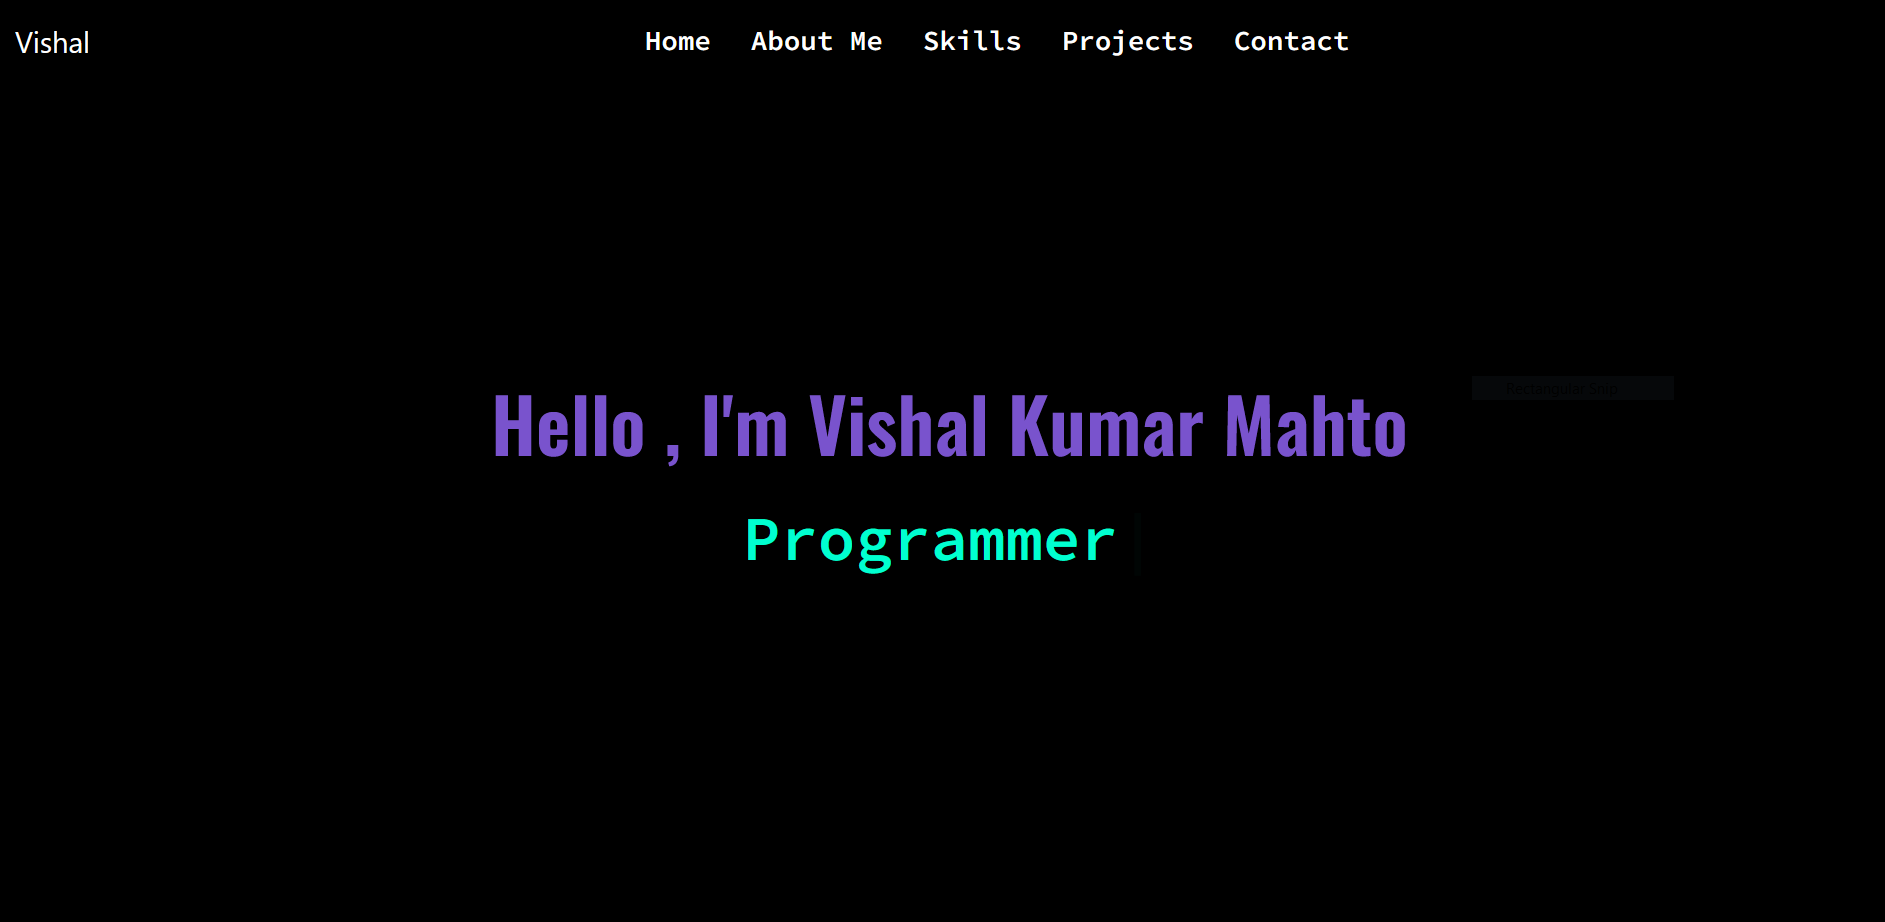
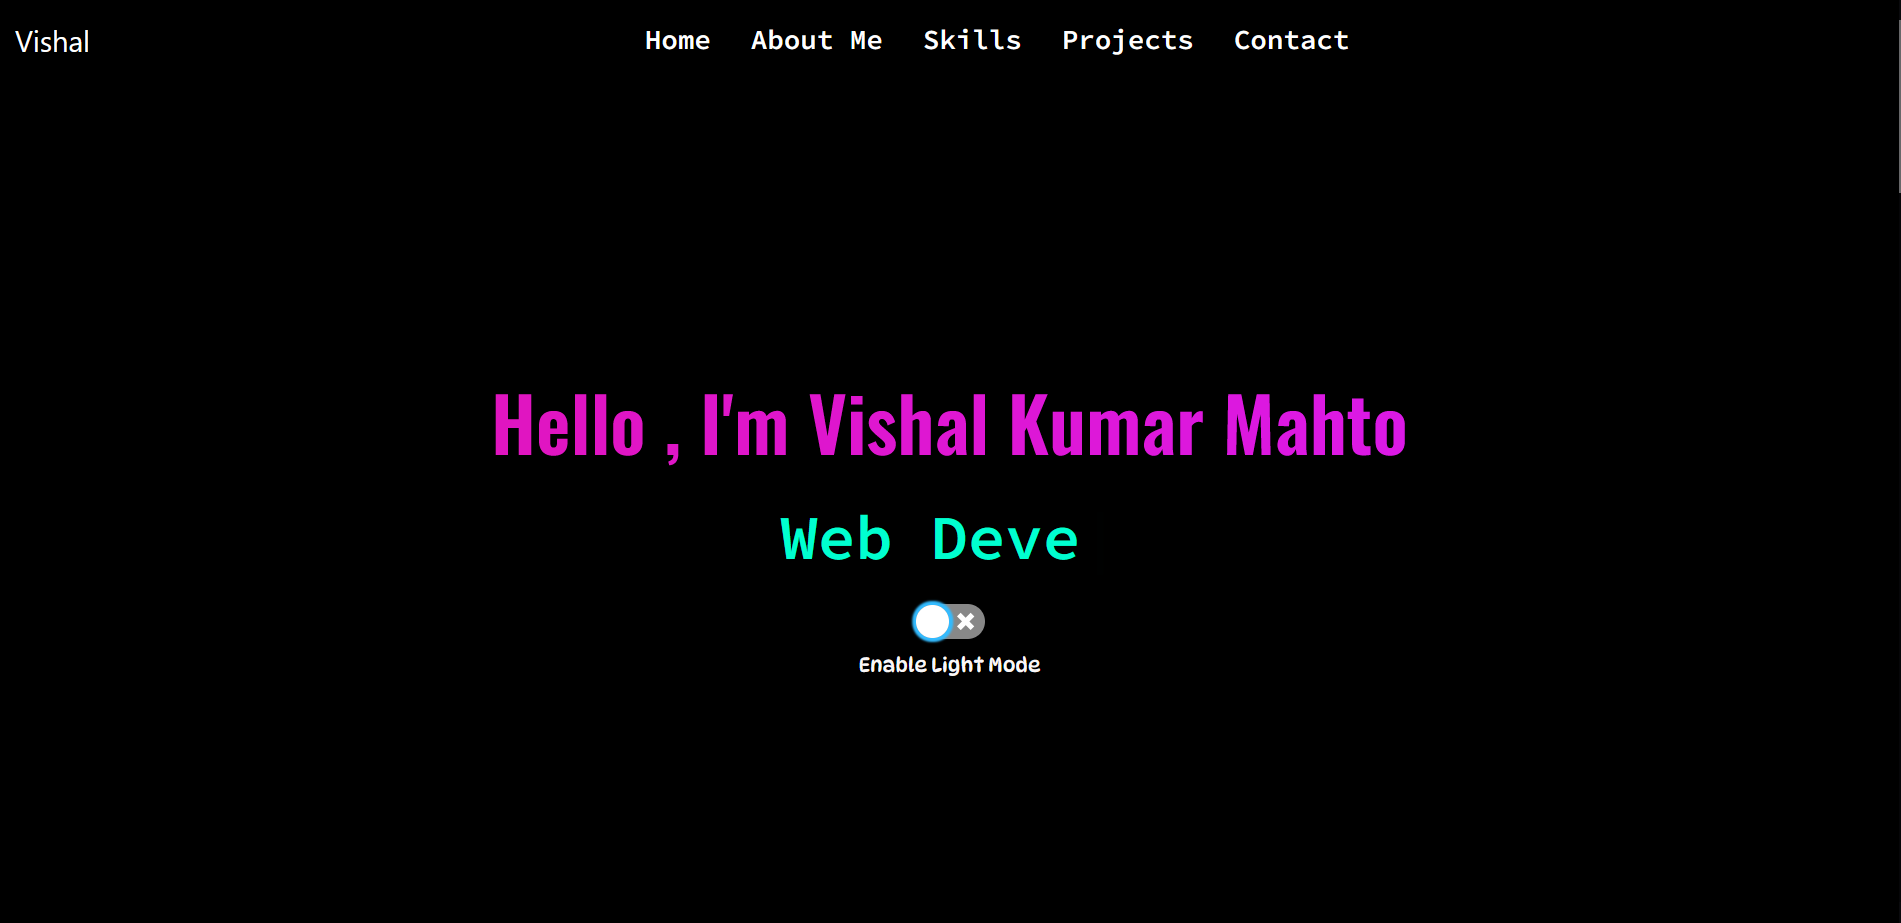
Added light mode and transitions

diff --git a/src/components/Projects.js b/src/components/Projects.js
@@ -2,7 +2,9 @@ import React from "react";
 import bitapp from './Images/Projects/edit.PNG'
 import portfolio from './Images/Projects/Portfolio.PNG'
 import Login from './Images/Projects/Login.PNG'
+import Aos from "aos";
 export default function Projects() {
+  Aos.init();
   return (
     <>
       <div className="projects" id="project">
@@ -11,7 +13,7 @@ export default function Projects() {
           <div className="row">
             <div className="col-12 col-md-4">
               <div className="card">
-                <img src={bitapp} className="card-img-top" alt="BIT App" />
+                <img src={bitapp} className="card-img-top" alt="BIT App" data-aos="flip-up" />
                 <div className="card-body">
                   <h5 className="card-title">BIT Notes</h5>
                   <p className="card-text">
@@ -25,7 +27,7 @@ export default function Projects() {
             </div>
             <div className="col-12 col-md-4 ">
             <div className="card" >
-                <img src={portfolio} className="card-img-top" alt="Personal Site" />
+                <img src={portfolio} className="card-img-top" alt="Personal Site" data-aos="flip-up"/>
                 <div className="card-body">
                   <h5 className="card-title">Personal Site</h5>
                   <p className="card-text">
@@ -39,7 +41,7 @@ export default function Projects() {
             </div>
             <div className="col-12 col-md-4">
             <div className="card">
-                <img src={Login} className="card-img-top" alt="..." />
+                <img src={Login} className="card-img-top" alt="..." data-aos="flip-up"/>
                 <div className="card-body">
                   <h5 className="card-title">Weather App</h5>
                   <p className="card-text">

diff --git a/src/components/Cf.js b/src/components/Cf.js
@@ -7,7 +7,7 @@ export default function Cf() {
   const [userData, setData] = useState([]);
   const [text, setText] = useState([]);
   const[alert , setAlert]= useState(null);
-  let url = `https://codeforces.com/api/user.rating?handle=${text}`;
+  let url = `https://codeforces.com/api/user.info?handles=${text}`;
   // useEffect(() => {
    
   // }, []);
@@ -20,6 +20,7 @@ export default function Cf() {
       // console.log(response.data.result[l - 1]);
       setData(response.data.result[l - 1]);
    //   console.log(l);
+
     }).catch(err =>{
       console.log(err);
       setAlert("Invalid Details")
@@ -32,6 +33,7 @@ export default function Cf() {
   const handleOnchange= (event) =>{
     setText(event.target.value);
   }
+ 
   return (
     <>
     <div className="form">
@@ -49,8 +51,11 @@ export default function Cf() {
       </div>
 
       <div className="c">
+        <img src={userData.titlePhoto} alt="" />
        <h3>Handle-{userData.handle}</h3>
-      <h3>Rating- {userData.newRating}</h3>
+      <h3>Rating- {userData.rating}</h3>
+      <h3>Max Rating- {userData.maxRating}</h3>
+      <h3>Rank-{userData.rank}</h3>
       </div>
     </div>
      

diff --git a/src/App.js b/src/App.js
@@ -6,18 +6,31 @@ import Skills from './components/Skills';
 import Projects from './components/Projects';
 import Contact from './components/Contact';
 import Cf from './components/Cf';
+import { createContext,useState } from 'react';
+import ReactSwitch from 'react-switch';
+
+export const ThemeContext = createContext(null);
 function App() {
+  const[theme,setTheme] = useState("dark");
+  const[text,setText] = useState("Enable");
+  const toggleTheme = () =>{
+     setTheme((curr)=>(curr==="light" ? "dark" : "light"));
+     setText((curr)=>(curr==="Enable" ? "Disable" : "Enable"));
+  }
   return (
-    <>
+    <ThemeContext.Provider value={{theme,setTheme}}>
+    <div className="App" id={theme}>
     <Navbar/>
     <Home/>
+    <ReactSwitch onChange={toggleTheme} checked={theme==="light"}/>
+    <div className="toggle">{text} Light Mode</div>
     <About/>
     <Skills/>
     <Projects/>
     <Cf/>
     <Contact/>
-    
-    </>
+    </div>
+    </ThemeContext.Provider>
   );
 }
 

diff --git a/src/components/About.js b/src/components/About.js
@@ -1,7 +1,8 @@
 import React from "react";
 import abt from "./Images/dp.jpg";
+import Aos from "aos";
 export default function About() {
- 
+  Aos.init();
  return (
     <>
       <div className="about" id="about">
@@ -9,9 +10,9 @@ export default function About() {
           <h1>About Me</h1>
         </div>
         <section className="about-me">
-          <img src={abt} alt="" />
-          <div className="content">
-            <p className="animation" >
+          <img src={abt} alt="" data-aos="fade-right" data-aos-offset="500" data-aos-easing="ease-in-sine" />
+          <div className="content" >
+            <p className="animation"  data-aos="zoom-out-up">
               Hi I'm Vishal Kumar Mahto.I'm a Third Year Undergraduate at
               Birla Institute of Technology,Mesra pursuing Production and Industrial
               Engineering.I'm born and brought up in Ranchi,I have done my

diff --git a/public/index.html b/public/index.html
@@ -25,7 +25,7 @@
       Learn how to configure a non-root public URL by running `npm run build`.
     -->
     <link href="https://cdn.jsdelivr.net/npm/bootstrap@5.3.0-alpha3/dist/css/bootstrap.min.css" rel="stylesheet" integrity="sha384-KK94CHFLLe+nY2dmCWGMq91rCGa5gtU4mk92HdvYe+M/SXH301p5ILy+dN9+nJOZ" crossorigin="anonymous">
-
+    <link href="https://unpkg.com/aos@2.3.1/dist/aos.css" rel="stylesheet">
     <title>Vishal's Site</title>
   </head>
   <body>
@@ -42,6 +42,6 @@
       To create a production bundle, use `npm run build` or `yarn build`.
     -->
     <script src="https://cdn.jsdelivr.net/npm/bootstrap@5.3.0-alpha3/dist/js/bootstrap.bundle.min.js" integrity="sha384-ENjdO4Dr2bkBIFxQpeoTz1HIcje39Wm4jDKdf19U8gI4ddQ3GYNS7NTKfAdVQSZe" crossorigin="anonymous"></script>
-
+    <script src="https://unpkg.com/aos@2.3.1/dist/aos.js"></script>
   </body>
 </html>

diff --git a/src/index.css b/src/index.css
@@ -71,6 +71,7 @@ body{
   font-size: 50px;
   color: rgb(0, 255, 208);
   margin-top: 10px;
+  margin-bottom: 16px;
 }
 /* about section */
 .about{
@@ -142,7 +143,7 @@ body{
 }
 .Skills img{
   width:50%;
-  margin-left: 25%;
+  margin-left: 10%;
   margin-top: 6px;
   margin-bottom: 15px;
 }
@@ -232,9 +233,24 @@ body{
   font-family: 'Sedgwick Ave Display', cursive;
   margin-top: 50px;
 }
+
+.c h3{
+  margin-top: 16px;
+}
 .form{
   margin-top: 20px;
 }
 .card{
   margin-bottom: 30px;
+}
+#light{
+  background-color: #8791cc;
+  color: black;
+}
+#dark{
+  background-color: black;
+}
+.toggle{
+  font-family: 'DynaPuff', cursive;
+  margin-top: 4px;
 }

diff --git a/src/components/Skills.js b/src/components/Skills.js
@@ -18,7 +18,7 @@ export default function Skills() {
         <div className="heading-skill">
           <h1>Skills</h1>
         </div>
-        <div className="container">
+        <div className="container" >
           <div className="row">
             <div className="col-md-3 col-6 ">
             <img className ="ico" src={reactpng} alt="react" />
